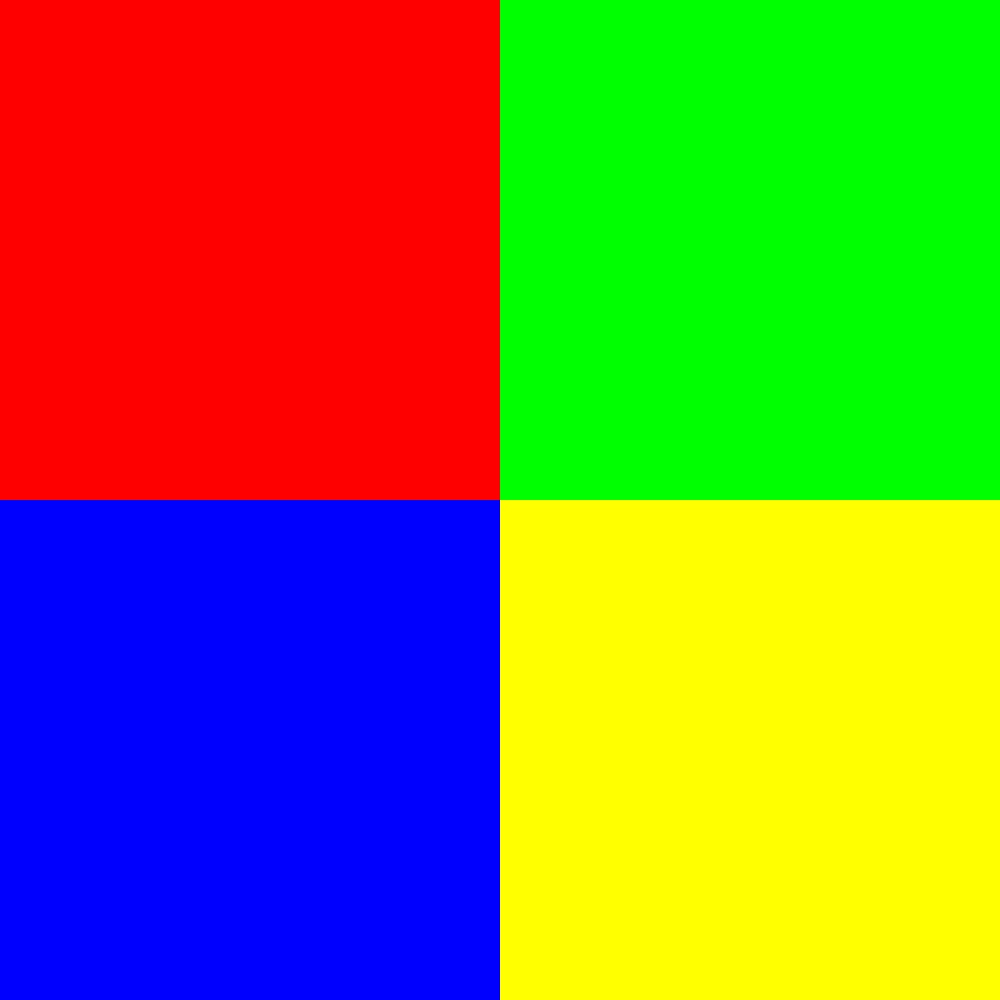
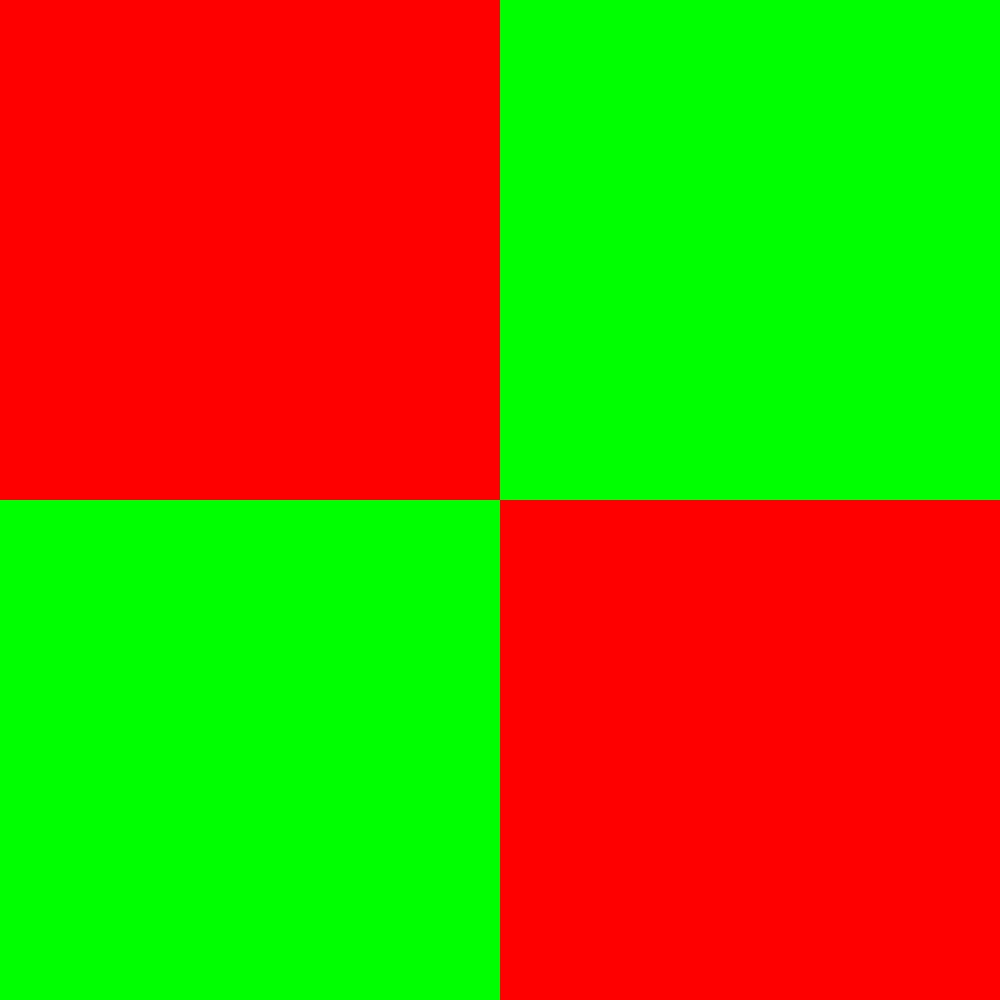
changes to box

diff --git a/VjtiAssignment/Question2-a.py b/VjtiAssignment/Question2-a.py
@@ -61,15 +61,57 @@ elif str==2:
 elif str==3:
     a1=int(input("Enter first dimension: "))
     b1=int(input("Enter second dimension: "))
-    c1=int(input("Enter no of boxes:"))
+    color=[]
     blank=np.ones((b1,a1,3),dtype="uint8")
     blank[:]=255,255,255
+    d1=int(input("Enter number of boxes :"))
+    for i in range(1,d1+1):
+      ci=input(f"Enter color of box {i} in lowercase ")
+      color.append(ci)
+    if color[0]=="red":
+      c1=(0,0,255)
+    elif color[0]=="green":
+      c1=(0,255,0)
+    elif color[0]=="yellow":
+      c1=(0,255,255)
+    else:
+      c1=(255,0,0)
+      
+    # 2nd box
+    if color[1]=="red":
+            c2=(0,0,255)
+    elif color[1]=="green":
+          c2=(0,255,0)
+    elif color[1]=="yellow":
+          c1=(0,255,255)
+    else:
+          c2=(255,0,0)
+      
+    # 3rd box
+    if color[2]=="red":
+        c3=(0,0,255)
+    elif color[2]=="green":
+      c3=(0,255,0)
+    elif color[2]=="yellow":
+      c3=(0,255,255)
+    else:
+          c3=(255,0,0)
+      
+    # 4th box 
+    if color[3]=="red":
+          c4=(0,0,255)
+    elif color[3]=="green":
+        c4=(0,255,0)
+    elif color[3]=="yellow":
+       c4=(0,255,255)
+    else:
+       c4=(255,0,0)
+    
     def option3(blank):
-        
-      cv.rectangle(blank,(0,0),(a1//2,b1//2),(red),thickness=-1)
-      cv.rectangle(blank,(a1//2,0),(a1,b1//2),(green),thickness=-1)
-      cv.rectangle(blank,(0,b1//2),(a1//2,b1),(blue),thickness=-1)
-      cv.rectangle(blank,(a1//2,b1//2),(a1,b1),(yellow),thickness=-1)
+      cv.rectangle(blank,(0,0),(a1//2,b1//2),(c1),thickness=-1)
+      cv.rectangle(blank,(a1//2,0),(a1,b1//2),(c2),thickness=-1)
+      cv.rectangle(blank,(0,b1//2),(a1//2,b1),(c3),thickness=-1)
+      cv.rectangle(blank,(a1//2,b1//2),(a1,b1),(c4),thickness=-1)
       return (blank)
     img3=option3(blank)
     cv.imshow("Option 3",img3)
@@ -79,3 +121,8 @@ elif str==3:
 else:
   print("Plz enter among the 3 options only")
 
+red=(0,0,255)
+green=(0,255,0)
+blue=(255,0,0)
+yellow=(0,255,255)
+black=(0,0,0)
